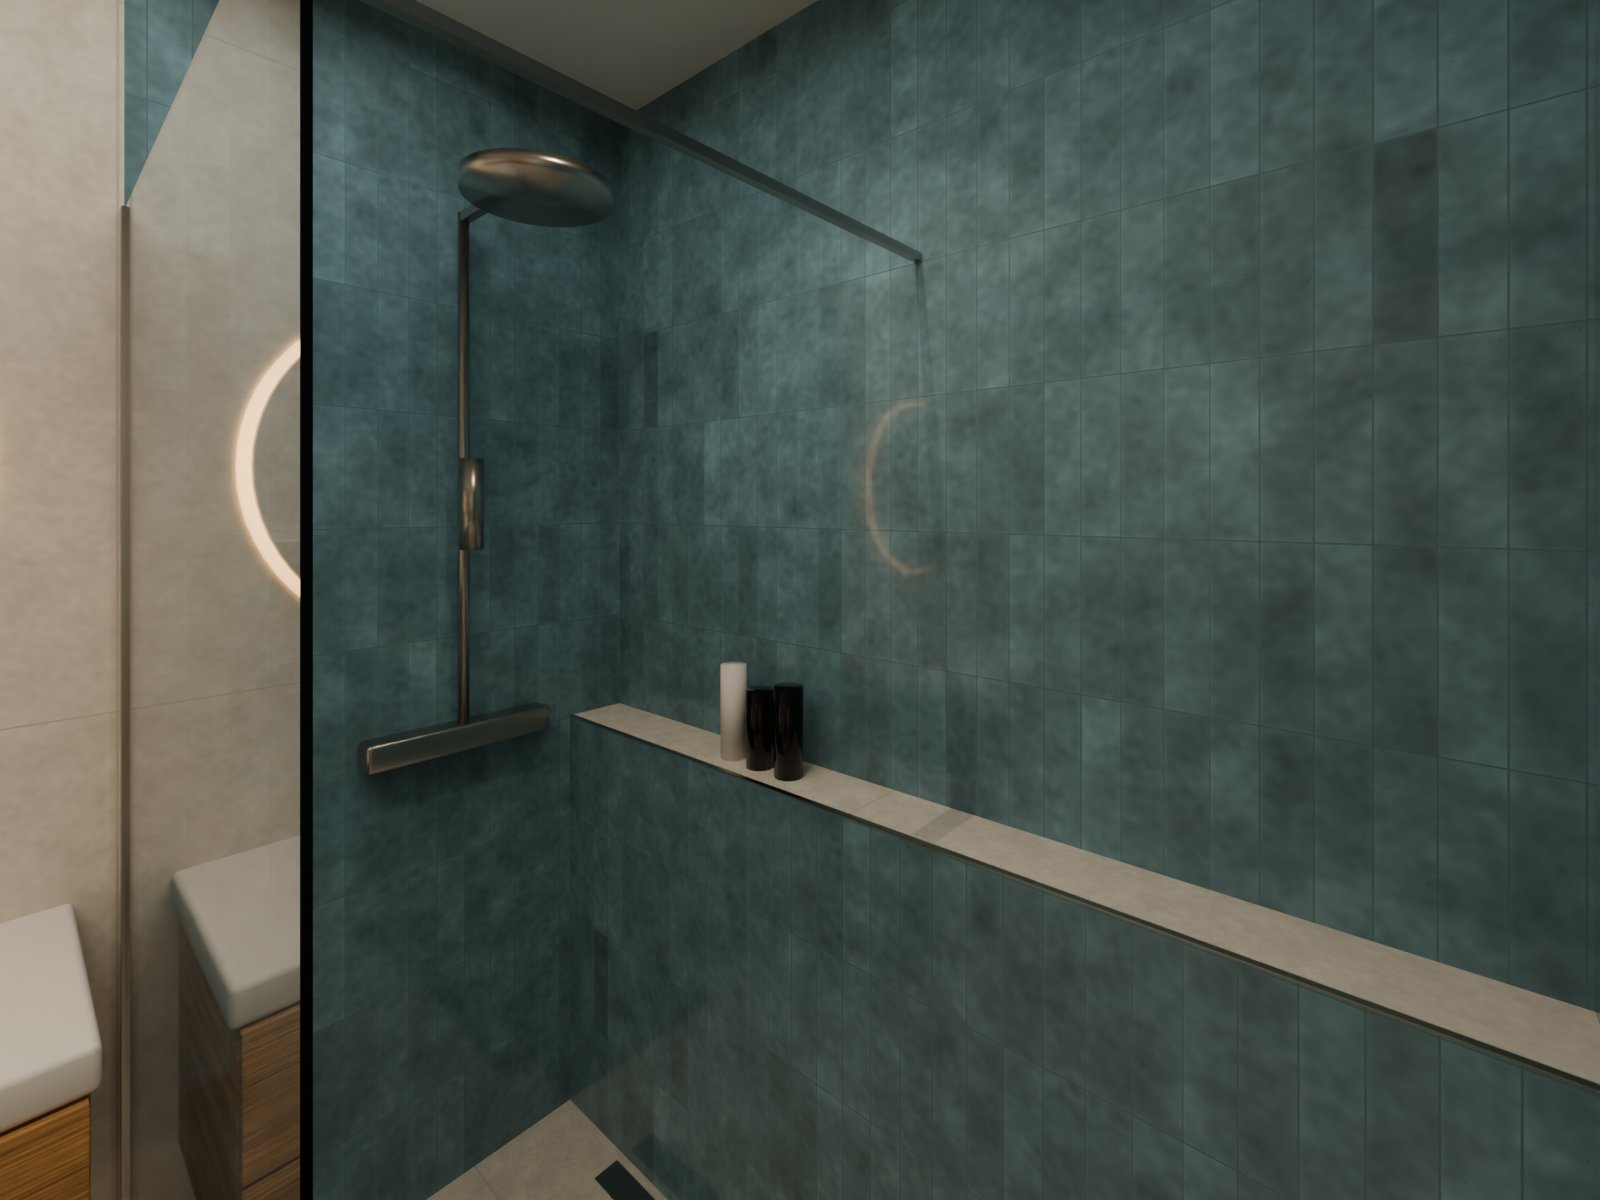
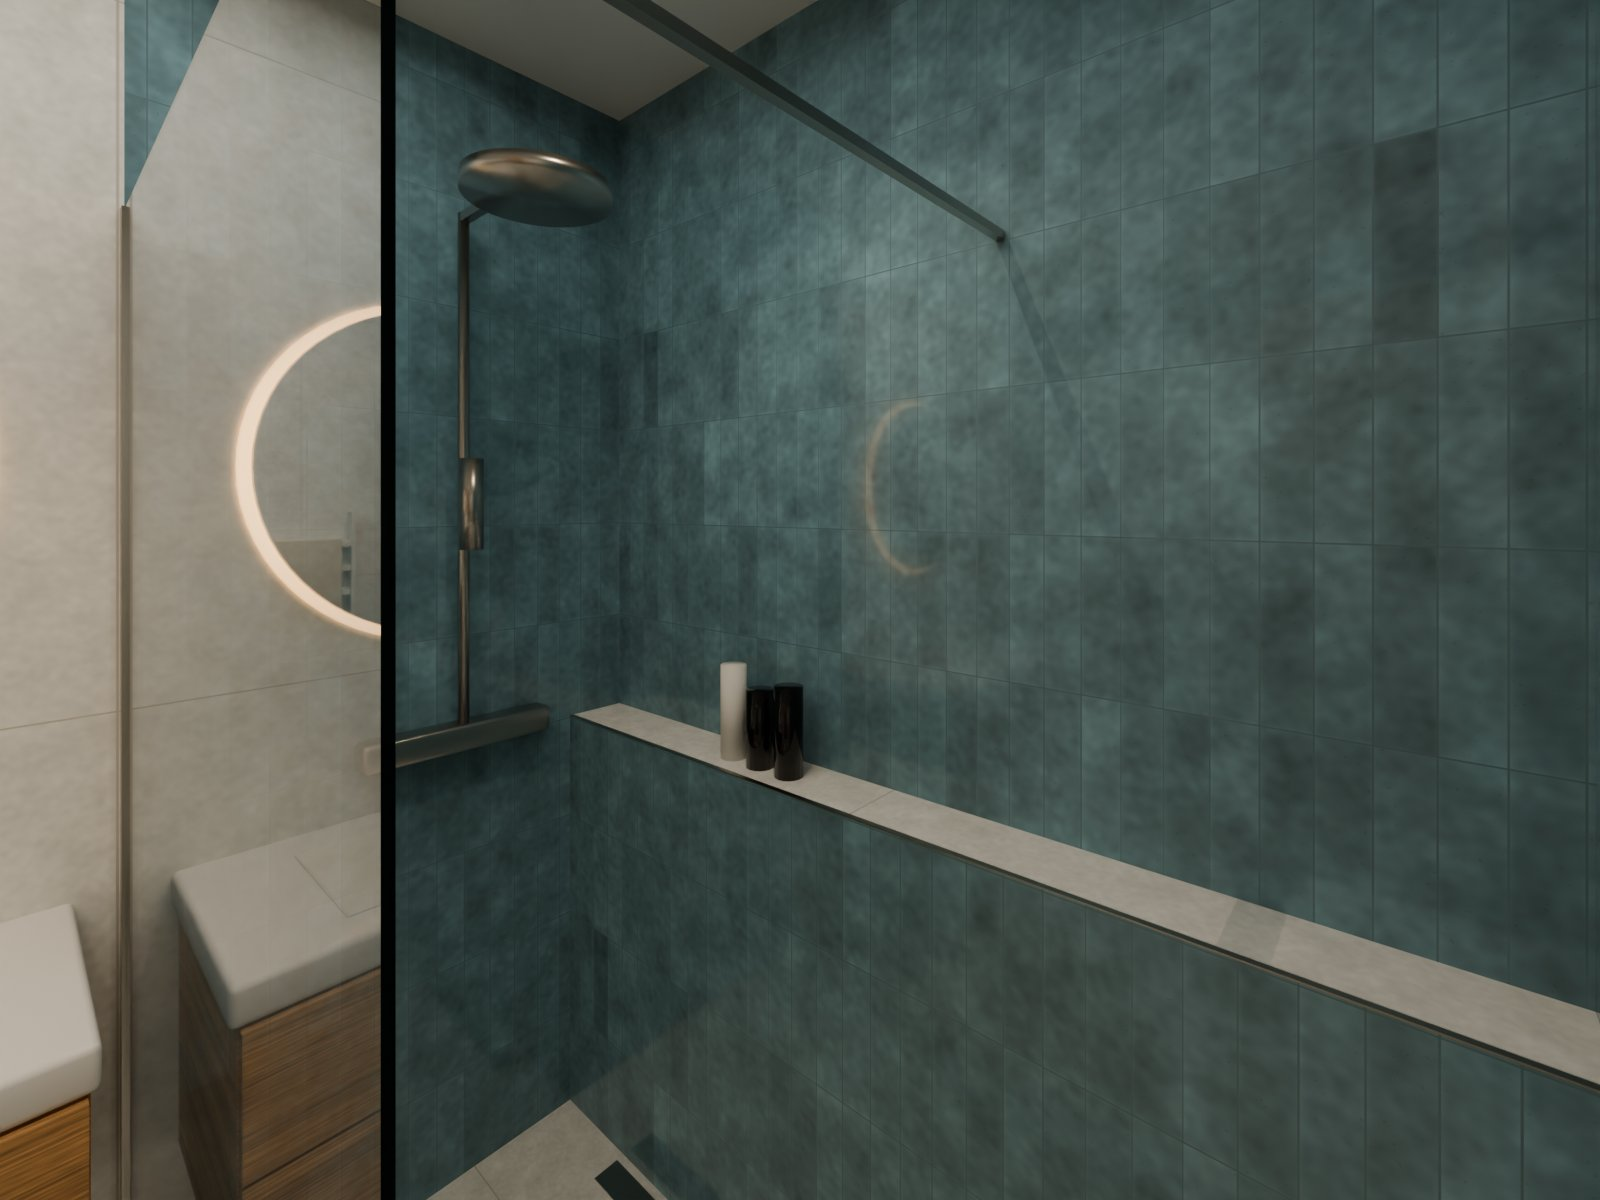
Gallery: curtains in the living room, bedroom and study; Bremen re-coloured; Coralstone and Lomma renders removed

diff --git a/gallery/index.html b/gallery/index.html
@@ -138,16 +138,7 @@ figcaption { display: grid; gap: 2px; }
       </figure>
     </div>
     <div class="walls">
-      <div class="swatches" role="group" aria-label="Bathroom wall tile">
-        <button class="swatch" data-wall="bremen" aria-pressed="true">Walls: Bremen Ivoor</button>
-        <button class="swatch" data-wall="coralstone" aria-pressed="false">Coralstone Calcite</button>
-        <button class="swatch" data-wall="lomma" aria-pressed="false">Lomma Bone</button>
-      </div>
-      <div class="swatches" role="group" aria-label="Wall tile size">
-        <button class="swatch" data-size="60x120" aria-pressed="true">60 × 120</button>
-        <button class="swatch" data-size="60x60" aria-pressed="false">60 × 60</button>
-      </div>
-      <p class="hint">The bathroom walls outside the shower, over the Bremen Ivoor 60 × 120 floor: three columns of 60 that carry the floor joints up the wall, and a 20 cm strip at the ceiling (60 × 120: 120 + 120 + 20; 60 × 60: four rows + 20). Bremen (10 mm) is only made in 60 × 120. Coralstone Calcite (8 mm, warm stone with fossil flecks) and Lomma Bone (10 mm, light and calm) are coloured after the shop's pictures, so check them against samples.</p>
+      <p class="hint">The bathroom walls outside the shower, over the Bremen Ivoor 60 × 120 floor: three columns of 60 that carry the floor joints up the wall, and a 20 cm strip at the ceiling (120 + 120 + 20). Bremen is lighter and whiter than the Petra sample, as Ceramic Connection's own photos show it. The 60 × 60 candidates from Tegels in Huis (Babilon bone: the colour of Petra; Belavu ivoor: the warmest; Babilon wit, Alexstone crème, Pietrastone zand), on the walls and on the floor, are in the walk-through's Finishes panel.</p>
     </div>
     <div class="ledge">
       <figure>
@@ -166,7 +157,7 @@ figcaption { display: grid; gap: 2px; }
       <p>The toilet uses the same tile as the shower, so the two always match. The glass panel now stands on the sink side, and the rain head, hand shower and thermostat are on the mirror wall. You walk into the shower from the radiator side. Across the back of the shower a solid ledge wall, 1.00 m high and 15 cm deep, replaces the niche: four full rows of tiles, so its joints run on from the wall behind it, straight into a square metal edge profile (its 10 mm side on top, so from the door you see only a thin line), and the drain sits right in front of it.</p>
       <dl class="spec">
         <dt>Wall tile</dt><dd>Ceramic Connection Rio, glazed 6 × 25 cm, stacked vertically with grout in the tile colour, in shower and toilet. Shortlist: Turquoise, Blue, Clay</dd>
-        <dt>Floor + walls</dt><dd>Floor: Bremen Ivoor 60 × 120 cm (R10, 10 mm): the dry floor 3 × 60 by two equal 91 cm cuts with one joint down the middle; the shower floor its own sloped field to the linear drain; the toilet floor one tile across (3 tiles). Walls: Bremen standing, 120 + 120 + a 20 cm strip at the ceiling, three tiles per wall; or Coralstone Calcite / Lomma Bone in 60 × 120 or 60 × 60 on the same three columns (the walls switch above, and in the walk-through)</dd>
+        <dt>Floor + walls</dt><dd>Floor: Bremen Ivoor 60 × 120 cm (R10, 10 mm): the dry floor 3 × 60 by two equal 91 cm cuts with one joint down the middle; the shower floor its own sloped field to the linear drain; the toilet floor one tile across (3 tiles). Walls: Bremen standing, 120 + 120 + a 20 cm strip at the ceiling, three tiles per wall. The 60 × 60 candidates (walls and floor, the shower curb in the same tile) are in the walk-through</dd>
         <dt>Shower ledge</dt><dd>Solid wall over the full back wall, 1.00 m × 15 cm deep, a square metal edge profile along the front (thick side on top). Top: a sill of the floor tile, Bremen Ivoor, in two ~90 cm pieces with one joint in the middle, in line with the floor's centre joint (the pick). The walk-through also has the Rio wrapped over the top</dd>
         <dt>South wall</dt><dd>Washer column in the corner by the door, towel radiator next to it</dd>
       </dl>
@@ -210,14 +201,9 @@ figcaption { display: grid; gap: 2px; }
     <div>
       <h3>Changed in this round</h3>
       <ul>
-        <li>Tiles: the Rio colours matched to your samples (two photos with and two without lamp light): Turquoise a deep blue-green, Blue a lighter sea blue, Clay terracotta.</li>
-        <li>Bathroom walls: Bremen now 120 + 120 + a 20 cm strip at the ceiling (70 / 120 / 70 took a whole tile per 70 cm piece, about 6 m² more), with Coralstone Calcite and Lomma Bone in 60 × 120 or 60 × 60 as options. Petra is out: it is only made in 80 × 80, which needs cuts on every wall.</li>
-        <li>Floor: PVC with an oak print after the example (vloer1): 20 cm planks, 1.1–1.9 m long, fine bevelled joints. The walk-through also has it light and grey-washed.</li>
-        <li>Underfloor heating: the radiators in the living room, study and bedroom are gone; the bathroom keeps its towel radiator.</li>
-        <li>The balcony door in its real place, at the study end of the balcony, light green and sturdier. That leaves 1.69 m of TV wall to the study opening; the sideboard is now 1.45 m.</li>
-        <li>Bedroom: a 45 cm paper-globe pendant. Hall and corridor: small black surface-mounted spots instead of flat downlights.</li>
-        <li>Shower ledge: 1.00 m high with a square metal edge profile, thick side on top, the Rio running straight into it.</li>
-        <li>Balcony: an L-shaped oak lounge sofa with sand cushions in the far corner from the door (in the walk-through).</li>
+        <li>Curtains: blackout wave curtains in deep olive-charcoal in the bedroom, oat-linen wave curtains in the living room and a roman blind in the same linen in the study (drawn up above the window). In the walk-through they open and shut (E).</li>
+        <li>Bathroom tiles: Bremen re-coloured lighter and whiter (the light sample measured before was Petra Bone). Coralstone and Lomma are out; the 60 × 60 candidates from Tegels in Huis are in the walk-through, measured beside the Petra sample.</li>
+        <li>Re-rendered: living room, study, bedroom, bathroom, toilet and the shower ledge.</li>
       </ul>
     </div>
     <div class="stack">
@@ -249,8 +235,7 @@ const names = { rio_turquoise: "Rio Turquoise", rio_blue: "Rio Blue", rio_clay: 
 let tile = "rio_turquoise", ledge = "sill", wall = "bremen", size = "60x120";
 // the bathroom views are rendered per wall tile and size: renders/<view>[_<wall>[_60x60]]_<tile>.jpg (Bremen: plain names)
 const WALL_VIEWS = ["bathroom", "bathroom_back"];
-const WALLS = { bremen: { name: "Bremen Ivoor", sizes: ["60x120"] }, coralstone: { name: "Coralstone Calcite", sizes: ["60x120", "60x60"] },
-                lomma: { name: "Lomma Bone", sizes: ["60x120", "60x60"] } };
+const WALLS = { bremen: { name: "Bremen Ivoor", sizes: ["60x120"] } };   // the 60 x 60 candidates are in the walk-through only
 const SIZES = { "60x120": "60 × 120", "60x60": "60 × 60" };
 const LEDGE = {   // the shower close-up: rendered per ledge top and per tile colour (renders/shower_<top>_<tile>.jpg)
   sill:  { sub: "· floor-tile sill", dims: "1.00 m high · 15 cm deep · metal edge profile · Bremen Ivoor top, 2 × ~90 cm",
